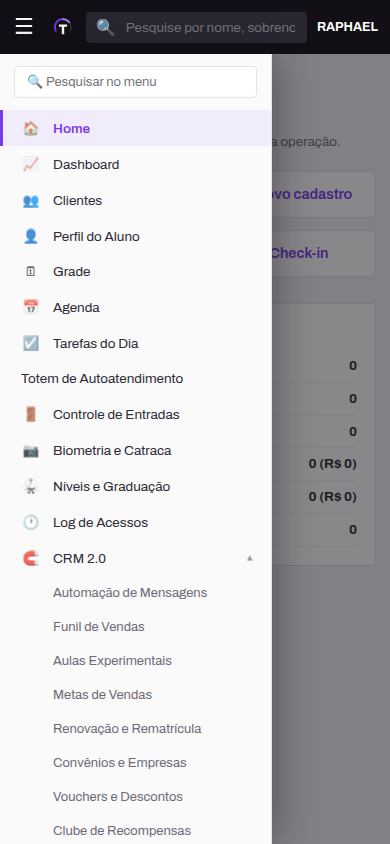
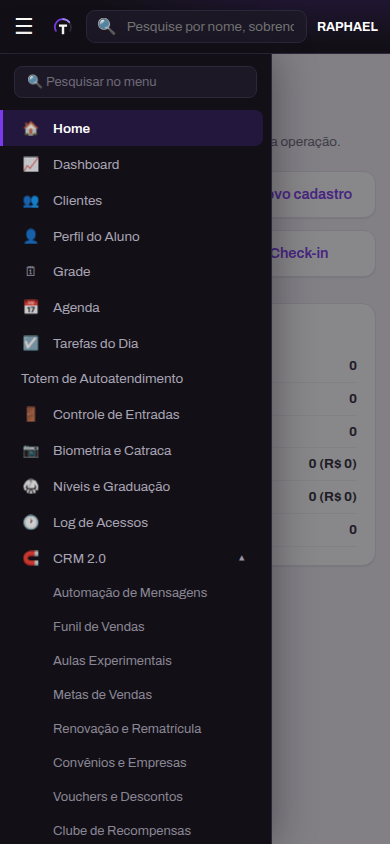
Acabamento premium na casca do Sistema e nas superfícies escuras
Segue a spec do pacote de redesign para as telas com CSS próprio:
- sistema.html: menu lateral escuro (#121016) com item ativo em pílula
  roxa (rgba .18 + borda 3px), busca do menu e global escuras com anel
  de foco, topbar com radial roxo, atalhos/KPIs/painéis com raio 14px
  e sombras, botões com lift + sombra roxa.
- totem.html: fundo com glow radial roxo, anel de foco na busca, hover
  nos botões/sugestões, sombra no WOD; linha "🕐 Hoje" só aparece
  quando o funcionamento está configurado.
- tv.html: glow de fundo, traço-gradiente na marca, barras-pílula com
  transição, tags-pílula, 1º lugar com gradiente e sombra.
- matricula.html: topo com radial roxo, planos com hover/lift e sombra
  roxa no selecionado, anel de foco, botão em gradiente.
- app-aluno.html (gerador): cards/details/favoritos com raio 14 e
  sombra, botões com sombra da cor e efeito de pressão, nav com sombra
  superior.
SW mt-v147; as 7 suítes passam (49 checagens na test-final incluídas).

Claude-Session: https://claude.ai/code/session_01YJYUzEh6NYJGH3ezUp8h3y

diff --git a/apps/sistema.html b/apps/sistema.html
@@ -10,8 +10,12 @@
   :root {
     --roxo: #7c3aed; --roxo-2: #6d28d9; --lilas: #a78bfa;
     --escuro: #121016; --texto: #2e2b36; --cinza: #6e6a78; --cinza-2: #9995a3;
-    --fundo: #f2f1f5; --menu: #fafafa; --linha: #e4e2ea;
+    --fundo: #f2f1f5; --menu: #121016; --linha: #e4e2ea; --linha-escura: #2c2739;
     --ok: #16a34a; --erro: #dc2626; --alerta: #d97706;
+    --raio: 14px; --raio-s: 9px;
+    --sombra-1: 0 1px 2px rgba(19,17,24,.05), 0 1px 1px rgba(19,17,24,.03);
+    --sombra-roxo: 0 8px 20px -8px rgba(124,58,237,.5);
+    --anel: 0 0 0 3px rgba(124,58,237,.16);
   }
   * { box-sizing: border-box; }
   [hidden] { display: none !important; }
@@ -20,15 +24,18 @@
   /* ---------- topbar (escura, estilo EVO) ---------- */
   .topo {
     position: fixed; top: 0; left: 0; right: 0; z-index: 30; height: 54px;
-    background: var(--escuro); color: #fff;
+    background: radial-gradient(140% 300% at 90% -80%, rgba(124,58,237,.25), transparent 55%), var(--escuro);
+    border-bottom: 1px solid var(--linha-escura); color: #fff;
     display: flex; align-items: center; gap: 16px; padding: 0 16px;
   }
   .topo .marca { display: flex; align-items: center; gap: 8px; font-weight: 800; letter-spacing: .06em; font-size: 15px; white-space: nowrap; }
   .topo .marca img { width: 26px; height: 26px; }
   .topo .buscaGlobal {
     flex: 1; max-width: 560px; display: flex; align-items: center; gap: 8px;
-    background: #2a2733; border-radius: 4px; padding: 7px 12px;
+    background: #1c1826; border: 1px solid var(--linha-escura); border-radius: var(--raio-s); padding: 7px 12px;
+    transition: border-color .15s ease, box-shadow .15s ease;
   }
+  .topo .buscaGlobal:focus-within { border-color: var(--roxo); box-shadow: var(--anel); }
   .topo .buscaGlobal input { flex: 1; background: none; border: none; color: #fff; font-family: inherit; font-size: 13.5px; outline: none; }
   .topo .direita { margin-left: auto; display: flex; align-items: center; gap: 10px; font-size: 12.5px; text-align: right; }
   .topo .direita small { display: block; color: var(--cinza-2); }
@@ -37,31 +44,36 @@
   /* ---------- menu lateral (claro, estilo EVO) ---------- */
   .menu {
     position: fixed; top: 54px; bottom: 0; left: 0; width: 228px; z-index: 20;
-    background: var(--menu); border-right: 1px solid var(--linha);
-    display: flex; flex-direction: column; overflow-y: auto; scrollbar-width: thin;
+    background: var(--menu); border-right: 1px solid var(--linha-escura); color: #a9a4b5;
+    display: flex; flex-direction: column; overflow-y: auto; scrollbar-width: thin; scrollbar-color: #2c2739 transparent;
   }
   .menu .pesquisaMenu { padding: 12px 14px 6px; }
   .menu .pesquisaMenu input {
     width: 100%; padding: 8px 12px; font-family: inherit; font-size: 13px;
-    border: 1px solid var(--linha); border-radius: 4px; background: #fff; color: var(--texto);
+    border: 1px solid var(--linha-escura); border-radius: 8px; background: #1c1826; color: #fff;
+    transition: border-color .15s ease, box-shadow .15s ease; outline: none;
   }
+  .menu .pesquisaMenu input::placeholder { color: #6e6a78; }
+  .menu .pesquisaMenu input:focus { border-color: var(--roxo); box-shadow: var(--anel); }
   .menu nav { flex: 1; padding: 6px 0 12px; }
   .item, .grupo > summary {
     display: flex; align-items: center; gap: 12px;
-    padding: 10px 18px; font-size: 13.5px; color: var(--texto);
+    padding: 10px 18px; font-size: 13.5px; color: #a9a4b5;
     cursor: pointer; text-decoration: none; border-left: 3px solid transparent;
-    list-style: none; user-select: none;
+    list-style: none; user-select: none; border-radius: 0 8px 8px 0; margin-right: 8px;
+    transition: background .12s ease, color .12s ease;
   }
   .grupo > summary::-webkit-details-marker { display: none; }
-  .item:hover, .grupo > summary:hover { background: #efedf4; }
-  .item.ativo { color: var(--roxo); border-left-color: var(--roxo); background: #f1ecfb; font-weight: 600; }
+  .item:hover, .grupo > summary:hover { background: rgba(255,255,255,.06); color: #fff; }
+  .item.ativo { color: #fff; border-left-color: var(--roxo); background: rgba(124,58,237,.18); font-weight: 600; }
   .item .ico, .grupo .ico { width: 20px; text-align: center; flex: none; opacity: .8; }
   .grupo > summary::after { content: "▾"; margin-left: auto; font-size: 11px; color: var(--cinza-2); transition: transform .15s; }
   .grupo[open] > summary::after { transform: rotate(180deg); }
   .grupo .sub { display: flex; flex-direction: column; }
-  .grupo .sub .item { padding-left: 50px; font-size: 13px; color: var(--cinza); }
-  .grupo .sub .item.ativo { color: var(--roxo); }
-  .menu .rodape { border-top: 1px solid var(--linha); padding: 8px 0; }
+  .grupo .sub .item { padding-left: 50px; font-size: 13px; color: #8a8695; }
+  .grupo .sub .item:hover { color: #fff; }
+  .grupo .sub .item.ativo { color: #fff; }
+  .menu .rodape { border-top: 1px solid var(--linha-escura); padding: 8px 0; }
 
   /* ---------- conteúdo ---------- */
   .conteudo { margin-left: 228px; margin-top: 54px; min-height: calc(100vh - 54px); display: flex; flex-direction: column; }
@@ -74,24 +86,25 @@
   .atalhos { display: flex; gap: 12px; flex-wrap: wrap; margin: 18px 0 26px; }
   .atalho {
     display: flex; align-items: center; gap: 10px; padding: 16px 26px;
-    background: #fff; border: 1px solid var(--linha); border-radius: 4px;
+    background: #fff; border: 1px solid var(--linha); border-radius: 12px; box-shadow: var(--sombra-1);
     font-size: 14.5px; font-weight: 600; color: var(--roxo); cursor: pointer; font-family: inherit;
+    transition: transform .15s ease, box-shadow .2s ease, border-color .15s ease;
   }
-  .atalho:hover { border-color: var(--roxo); }
+  .atalho:hover { border-color: var(--roxo); transform: translateY(-1px); box-shadow: var(--sombra-roxo); }
 
   /* dashboard */
   .kpis { display: grid; grid-template-columns: repeat(auto-fill, minmax(280px, 1fr)); gap: 14px; }
   .kpi {
-    background: #fff; border: 1px solid var(--linha); border-radius: 4px; padding: 16px 18px;
-    display: flex; flex-direction: column; gap: 4px;
+    background: #fff; border: 1px solid var(--linha); border-radius: var(--raio); padding: 18px 20px;
+    display: flex; flex-direction: column; gap: 4px; box-shadow: var(--sombra-1);
   }
   .kpi .rotulo { display: flex; justify-content: space-between; font-size: 13px; color: var(--texto); font-weight: 600; }
   .kpi .rotulo a { font-size: 12.5px; color: var(--roxo); text-decoration: none; font-weight: 600; cursor: pointer; }
-  .kpi .valor { font-size: 34px; font-weight: 800; }
+  .kpi .valor { font-size: 34px; font-weight: 800; letter-spacing: -.03em; font-variant-numeric: tabular-nums; }
   .kpi .valor.verde { color: var(--ok); }
   .kpi .valor.vermelho { color: var(--erro); }
   .kpi .compara { font-size: 11.5px; color: var(--cinza-2); border-top: 1px solid var(--fundo); padding-top: 8px; margin-top: 6px; }
-  .painel { background: #fff; border: 1px solid var(--linha); border-radius: 4px; padding: 18px; margin-top: 14px; }
+  .painel { background: #fff; border: 1px solid var(--linha); border-radius: var(--raio); padding: 18px; margin-top: 14px; box-shadow: var(--sombra-1); }
   .painel h3 { margin: 0 0 12px; font-size: 14px; display: flex; align-items: center; gap: 8px; }
   .lista-simples div { display: flex; justify-content: space-between; padding: 8px 0; border-bottom: 1px solid var(--fundo); font-size: 13.5px; }
 
@@ -112,10 +125,12 @@
   }
   .btn-roxo {
     display: inline-flex; align-items: center; gap: 8px; padding: 10px 18px;
-    background: var(--roxo); color: #fff; border: none; border-radius: 4px;
+    background: var(--roxo); color: #fff; border: none; border-radius: var(--raio-s);
     font-family: inherit; font-size: 13px; font-weight: 700; letter-spacing: .04em; cursor: pointer;
+    transition: background .15s ease, transform .15s ease, box-shadow .2s ease;
   }
-  .btn-roxo:hover { background: var(--roxo-2); }
+  .btn-roxo:hover { background: var(--roxo-2); transform: translateY(-1px); box-shadow: var(--sombra-roxo); }
+  .btn-roxo:active { transform: none; box-shadow: none; }
   .mini-abas { display: inline-flex; align-items: center; gap: 14px; margin-left: auto; font-weight: 400; }
   .mini-abas button {
     padding: 4px 2px; font-family: inherit; font-size: 12.5px; font-weight: 600;
@@ -131,7 +146,7 @@
     background: none; border: none; color: #cfccd8; font-size: 17px; cursor: pointer;
     padding: 6px 8px; border-radius: 4px;
   }
-  .acoes-topo button:hover { background: #2a2733; color: #fff; }
+  .acoes-topo button:hover { background: #1c1826; color: #fff; }
   .grafico svg { width: 100%; height: auto; display: block; }
   .leg { display: flex; gap: 18px; font-size: 12px; color: var(--cinza); justify-content: center; margin: 2px 0 10px; flex-wrap: wrap; }
   .leg i { display: inline-block; width: 10px; height: 10px; margin-right: 6px; border-radius: 2px; vertical-align: -1px; }
@@ -141,9 +156,9 @@
   .destaque-par .par .conv { color: var(--ok); }
 
   /* config */
-  .cfg-bloco { background: #fff; border: 1px solid var(--linha); border-radius: 4px; padding: 18px; margin-bottom: 14px; }
+  .cfg-bloco { background: #fff; border: 1px solid var(--linha); border-radius: var(--raio); padding: 18px; margin-bottom: 14px; box-shadow: var(--sombra-1); }
   .cfg-bloco h3 { margin: 0 0 10px; font-size: 14px; }
-  .btnzinho { padding: 9px 16px; font-family: inherit; font-size: 13px; font-weight: 600; border: 1px solid var(--linha); background: #fff; color: var(--texto); cursor: pointer; border-radius: 4px; }
+  .btnzinho { padding: 9px 16px; font-family: inherit; font-size: 13px; font-weight: 600; border: 1.5px solid #cfccd8; background: #fff; color: var(--texto); cursor: pointer; border-radius: var(--raio-s); transition: border-color .15s ease, color .15s ease, background .15s ease; }
   .btnzinho:hover { border-color: var(--roxo); color: var(--roxo); }
 
   /* botão hambúrguer (só aparece no celular) */

diff --git a/apps/totem.html b/apps/totem.html
@@ -8,17 +8,19 @@
 <link href="../assets/fonts/archivo.css" rel="stylesheet">
 <style>
   * { box-sizing: border-box; margin: 0; }
-  body { font-family: "Archivo", system-ui, sans-serif; background: #121016; color: #f5f4f7; min-height: 100vh; display: flex; flex-direction: column; }
+  body { font-family: "Archivo", system-ui, sans-serif; background: radial-gradient(120% 90% at 50% -30%, rgba(124,58,237,.22), transparent 60%), #121016; color: #f5f4f7; min-height: 100vh; display: flex; flex-direction: column; }
   header { text-align: center; padding: 26px 16px 10px; }
   header h1 { font-size: 30px; font-weight: 800; }
   #relogio { font-size: 52px; font-weight: 800; color: #a78bfa; letter-spacing: .02em; }
   main { flex: 1; max-width: 640px; width: 100%; margin: 0 auto; padding: 10px 18px 40px; }
   .busca { display: flex; gap: 10px; margin-top: 14px; }
   input { flex: 1; background: #1c1826; border: 2px solid #2c2739; border-radius: 14px; color: #fff; padding: 18px; font-family: inherit; font-size: 20px; text-align: center; }
-  input:focus { outline: none; border-color: #7c3aed; }
-  .btn-qr { background: #7c3aed; border: none; border-radius: 14px; color: #fff; font-size: 26px; padding: 0 24px; cursor: pointer; }
+  input:focus { outline: none; border-color: #7c3aed; box-shadow: 0 0 0 4px rgba(124,58,237,.2); }
+  .btn-qr { background: #7c3aed; border: none; border-radius: 14px; color: #fff; font-size: 26px; padding: 0 24px; cursor: pointer; transition: transform .15s ease, box-shadow .2s ease; }
+  .btn-qr:hover { transform: translateY(-1px); box-shadow: 0 8px 20px -8px rgba(124,58,237,.6); }
   .sug { margin-top: 8px; }
-  .sug button { display: block; width: 100%; background: #1c1826; border: 1px solid #2c2739; border-radius: 10px; color: #fff; font-family: inherit; font-size: 18px; padding: 14px; margin-top: 6px; cursor: pointer; }
+  .sug button { display: block; width: 100%; background: #1c1826; border: 1px solid #2c2739; border-radius: 10px; color: #fff; font-family: inherit; font-size: 18px; padding: 14px; margin-top: 6px; cursor: pointer; transition: border-color .12s ease, background .12s ease; }
+  .sug button:hover { border-color: #7c3aed; background: #221b31; }
   #painel { margin-top: 18px; border-radius: 18px; padding: 26px; text-align: center; display: none; }
   #painel.ok { background: rgba(22,163,74,.15); border: 2px solid #16a34a; }
   #painel.bloq { background: rgba(220,38,38,.14); border: 2px solid #dc2626; }
@@ -26,7 +28,7 @@
   #painel h2 { font-size: 26px; margin: 8px 0 4px; }
   #painel p { color: #cfc9dd; font-size: 15px; line-height: 1.5; }
   #videoQR { width: 100%; max-height: 300px; background: #000; border-radius: 14px; object-fit: cover; margin-top: 12px; display: none; }
-  .wod { background: #1c1826; border: 1px solid #2c2739; border-radius: 16px; padding: 18px; margin-top: 22px; }
+  .wod { background: #1c1826; border: 1px solid #2c2739; border-radius: 16px; padding: 18px; margin-top: 22px; box-shadow: 0 10px 30px -12px rgba(0,0,0,.4); }
   .wod h3 { color: #a78bfa; font-size: 13px; letter-spacing: .12em; margin-bottom: 8px; }
   .wod pre { font-family: inherit; white-space: pre-wrap; font-size: 15px; line-height: 1.55; }
   .aviso { background: #1c1826; border-left: 4px solid #7c3aed; border-radius: 10px; padding: 12px 14px; margin-top: 10px; font-size: 14px; }
@@ -78,10 +80,15 @@
     var d = new Date();
     $("relogio").textContent = ("0" + d.getHours()).slice(-2) + ":" + ("0" + d.getMinutes()).slice(-2);
     try {
-      var ab = S.abertoAgora();
-      var rot = ab.hoje.fechado ? "fechado hoje" : ab.hoje.faixas.map(function (f) { return f.de + "–" + f.ate; }).join(" e ");
-      $("funcHoje").textContent = "🕐 Hoje" + (ab.hoje.feriado ? " (" + ab.hoje.feriado + ")" : "") + ": " + rot +
-        (ab.hoje.fechado || ab.aberto ? "" : " · ⛔ fechado agora");
+      var stF = S.read("funcionamento", { dias: {}, feriados: [] });
+      var temCfg = Object.keys(stF.dias || {}).some(function (k) { return stF.dias[k] && stF.dias[k].de; }) || (stF.feriados || []).length;
+      if (!temCfg) { $("funcHoje").textContent = ""; }
+      else {
+        var ab = S.abertoAgora();
+        var rot = ab.hoje.fechado ? "fechado hoje" : ab.hoje.faixas.map(function (f) { return f.de + "–" + f.ate; }).join(" e ");
+        $("funcHoje").textContent = "🕐 Hoje" + (ab.hoje.feriado ? " (" + ab.hoje.feriado + ")" : "") + ": " + rot +
+          (ab.hoje.fechado || ab.aberto ? "" : " · ⛔ fechado agora");
+      }
     } catch (e) {}
   }
   tic(); setInterval(tic, 15000);

diff --git a/apps/app-aluno.html b/apps/app-aluno.html
@@ -432,11 +432,13 @@
       "h1{font-size:26px;font-weight:800;padding:18px 16px 8px}" +
       ".secTit{font-size:17px;font-weight:800;padding:14px 16px 8px}" +
       ".favs{display:flex;gap:10px;overflow-x:auto;padding:2px 16px 6px;-webkit-overflow-scrolling:touch}" +
-      ".fav{flex:0 0 104px;background:var(--card);border-radius:12px;padding:16px 8px;text-align:center;font-size:13px;font-weight:600;cursor:pointer;border:1px solid var(--linha)}" +
+      ".fav{flex:0 0 104px;background:var(--card);border-radius:14px;padding:16px 8px;text-align:center;font-size:13px;font-weight:600;cursor:pointer;border:1px solid var(--linha);box-shadow:0 1px 2px rgba(0,0,0,.2);transition:transform .15s ease,border-color .15s ease}" +
+      ".fav:active{transform:scale(.97)}" +
       ".fav .ic{display:block;font-size:22px;margin-bottom:8px}" +
-      ".cardx{background:var(--card);border:1px solid var(--linha);border-radius:12px;margin:6px 16px;padding:14px 16px}" +
+      ".cardx{background:var(--card);border:1px solid var(--linha);border-radius:14px;margin:6px 16px;padding:14px 16px;box-shadow:0 1px 2px rgba(0,0,0,.2)}" +
       ".linha{display:flex;align-items:center;gap:12px}" +
-      ".btnx{background:var(--cor);color:#fff;border:none;border-radius:22px;padding:11px 22px;font-weight:800;font-size:14px;font-family:inherit;cursor:pointer;text-decoration:none;display:inline-block}" +
+      ".btnx{background:var(--cor);color:#fff;border:none;border-radius:22px;padding:11px 22px;font-weight:800;font-size:14px;font-family:inherit;cursor:pointer;text-decoration:none;display:inline-block;box-shadow:0 6px 16px -8px var(--cor);transition:transform .12s ease}" +
+      ".btnx:active{transform:scale(.97)}" +
       ".kv{display:flex;justify-content:space-between;font-size:14.5px;padding:5px 0}.kv span:last-child{font-weight:700}" +
       ".ficha{margin-top:10px}.ficha h3{font-size:14px;margin-bottom:6px}" +
       ".ex{display:flex;justify-content:space-between;gap:8px;font-size:13.5px;padding:5px 0;border-bottom:1px dashed var(--linha);color:var(--txt)}" +
@@ -445,9 +447,9 @@
       ".banner{margin:6px 16px;padding:13px 16px;border-radius:12px;background:var(--cor);color:#fff;font-weight:800;font-size:14px;text-align:center}" +
       ".chipdia{display:flex;gap:8px;padding:8px 16px;overflow-x:auto}" +
       ".chipdia button{flex:0 0 44px;height:58px;border-radius:12px;border:1px solid var(--linha);background:var(--card);color:var(--txt);font-family:inherit;font-weight:700;cursor:pointer;font-size:12px}" +
-      ".chipdia button.on{background:var(--cor);border-color:var(--cor);color:#fff}" +
+      ".chipdia button.on{background:var(--cor);border-color:var(--cor);color:#fff;box-shadow:0 6px 16px -8px var(--cor)}" +
       ".chipdia .num{display:block;font-size:16px;margin-top:3px}" +
-      ".aula{background:var(--card);border:1px solid var(--linha);border-radius:12px;margin:6px 16px;padding:13px 16px}" +
+      ".aula{background:var(--card);border:1px solid var(--linha);border-radius:14px;margin:6px 16px;padding:13px 16px;box-shadow:0 1px 2px rgba(0,0,0,.2)}" +
       ".aula .l1{display:flex;justify-content:space-between;gap:8px;font-weight:800;font-size:15px}" +
       ".aula .sub{color:var(--txt2);font-size:13px;margin-top:3px}" +
       ".aula .vg{color:var(--txt2);font-size:13px;white-space:nowrap}" +
@@ -463,7 +465,7 @@
       ".perfilTopo{text-align:center;padding:18px 16px 6px}" +
       ".avat{width:84px;height:84px;border-radius:50%;background:var(--cor);color:#fff;display:inline-flex;align-items:center;justify-content:center;font-size:30px;font-weight:800}" +
       ".perfilTopo .idl{color:var(--txt2);font-size:13px;margin-top:8px}.perfilTopo .nm{font-size:22px;font-weight:800}.perfilTopo .ac{color:var(--txt2);letter-spacing:.08em;font-size:13px}" +
-      "details{background:var(--card);border:1px solid var(--linha);border-radius:12px;margin:6px 16px;overflow:hidden}" +
+      "details{background:var(--card);border:1px solid var(--linha);border-radius:14px;margin:6px 16px;overflow:hidden;box-shadow:0 1px 2px rgba(0,0,0,.2)}" +
       "summary{padding:15px 16px;font-weight:700;font-size:15px;cursor:pointer;list-style:none;display:flex;gap:12px;align-items:center}" +
       "summary::-webkit-details-marker{display:none}summary .ic{font-size:18px}summary:after{content:'›';margin-left:auto;color:var(--txt2);font-size:20px;transform:rotate(90deg)}" +
       "details[open] summary:after{transform:rotate(-90deg)}" +
@@ -498,7 +500,7 @@
       ".rk{display:flex;gap:10px;align-items:center;padding:7px 0;border-bottom:1px solid var(--linha);font-size:14px}" +
       ".rk:last-child{border-bottom:none}.rk .pos{width:34px;font-weight:800;text-align:center}" +
       ".rk.eu{background:linear-gradient(90deg,transparent,rgba(124,58,237,.10));font-weight:800;color:var(--cor)}" +
-      "nav{position:fixed;bottom:0;left:0;right:0;max-width:480px;margin:0 auto;display:flex;background:var(--card);border-top:1px solid var(--linha);padding-bottom:env(safe-area-inset-bottom)}" +
+      "nav{position:fixed;bottom:0;left:0;right:0;max-width:480px;margin:0 auto;display:flex;background:var(--card);border-top:1px solid var(--linha);padding-bottom:env(safe-area-inset-bottom);box-shadow:0 -6px 24px rgba(0,0,0,.25)}" +
       "nav button{flex:1;background:none;border:none;color:var(--txt2);font-family:inherit;font-size:11.5px;font-weight:700;padding:8px 4px 10px;cursor:pointer}" +
       "nav button .ic{display:block;font-size:20px;margin-bottom:2px}" +
       "nav button.on{color:var(--cor)}nav button.on .ic{background:var(--cor);border-radius:18px;padding:2px 14px}" +

diff --git a/apps/tv.html b/apps/tv.html
@@ -9,11 +9,11 @@
 <style>
   :root { --roxo: #7c3aed; --lilas: #a78bfa; --ok: #22c55e; --erro: #f87171; --alerta: #fbbf24; }
   * { box-sizing: border-box; }
-  html, body { margin: 0; height: 100%; background: #121016; color: #fff; font-family: "Archivo", system-ui, sans-serif; overflow: hidden; }
+  html, body { margin: 0; height: 100%; background: radial-gradient(110% 70% at 85% -20%, rgba(124,58,237,.2), transparent 60%), #121016; color: #fff; font-family: "Archivo", system-ui, sans-serif; overflow: hidden; }
   .tela { height: 100vh; display: flex; flex-direction: column; padding: 3.5vh 4vw; }
   .cab { display: flex; justify-content: space-between; align-items: center; }
   .marca { display: flex; align-items: center; gap: 14px; font-size: 2.2vh; font-weight: 700; letter-spacing: .2em; color: var(--lilas); }
-  .marca::before { content: ""; width: 3.5vw; height: .55vh; background: var(--roxo); }
+  .marca::before { content: ""; width: 3.5vw; height: .55vh; background: linear-gradient(90deg, var(--roxo), var(--lilas)); border-radius: 4px; }
   .relogio { font-size: 3.2vh; font-weight: 800; font-variant-numeric: tabular-nums; }
   h1 { margin: 2.2vh 0 0; font-size: 5.6vh; font-weight: 800; letter-spacing: -.01em; }
   .conteudo { flex: 1; margin-top: 3vh; overflow: hidden; }
@@ -27,20 +27,20 @@
   .rotulo { font-size: 2vh; font-weight: 700; letter-spacing: .16em; color: #a09aae; }
   .num { font-size: 6.4vh; font-weight: 800; margin: .6vh 0; }
   .num small { font-size: 2.6vh; color: #a09aae; font-weight: 600; }
-  .barra { height: 2.2vh; background: #1b1822; border: 1px solid #2e2a38; }
-  .barra > div { height: 100%; background: linear-gradient(90deg, var(--roxo), var(--lilas)); }
+  .barra { height: 2.2vh; background: #1b1822; border: 1px solid #2e2a38; border-radius: 999px; overflow: hidden; }
+  .barra > div { height: 100%; background: linear-gradient(90deg, var(--roxo), var(--lilas)); border-radius: 999px; transition: width .5s cubic-bezier(.22,1,.36,1); }
   .barra.cheia > div { background: var(--ok); }
   .rank { display: flex; flex-direction: column; gap: 1.6vh; }
   .rk { display: grid; grid-template-columns: 6vh 1fr 22vw 16vw; gap: 2vw; align-items: center; font-size: 3.4vh; }
   .rk .pos { font-weight: 800; color: var(--lilas); }
-  .rk .pos.p1 { color: #fff; background: var(--roxo); text-align: center; }
+  .rk .pos.p1 { color: #fff; background: linear-gradient(135deg, var(--roxo), var(--lilas)); text-align: center; border-radius: 12px; box-shadow: 0 8px 20px -8px rgba(124,58,237,.6); }
   .rk .nome { font-weight: 700; overflow: hidden; text-overflow: ellipsis; white-space: nowrap; }
   .rk .val { text-align: right; font-variant-numeric: tabular-nums; font-size: 3vh; }
   .rk .val strong { color: var(--ok); }
 
   /* listas (manutenção / checklist) */
   .lin { display: flex; align-items: center; gap: 1.6vw; padding: 1.6vh 0; border-bottom: 1px solid #2e2a38; font-size: 3.2vh; }
-  .lin .tag { font-size: 1.9vh; font-weight: 800; letter-spacing: .08em; padding: .5vh 1vw; flex: none; }
+  .lin .tag { font-size: 1.9vh; font-weight: 800; letter-spacing: .08em; padding: .5vh 1vw; flex: none; border-radius: 999px; }
   .tag.erro { background: rgba(248,113,113,.15); color: var(--erro); }
   .tag.alerta { background: rgba(251,191,36,.14); color: var(--alerta); }
   .tag.roxo { background: rgba(124,58,237,.2); color: var(--lilas); }

diff --git a/matricula.html b/matricula.html
@@ -9,19 +9,21 @@
 <style>
   * { box-sizing: border-box; margin: 0; }
   body { font-family: "Archivo", system-ui, sans-serif; background: #121016; color: #f5f4f7; min-height: 100vh; }
-  .topo { background: linear-gradient(135deg, #1c1724, #2a1f3d); padding: 34px 20px 26px; text-align: center; }
+  .topo { background: radial-gradient(120% 160% at 50% -40%, rgba(124,58,237,.35), transparent 60%), #121016; border-bottom: 1px solid #2c2739; padding: 38px 20px 28px; text-align: center; }
   .topo h1 { font-size: 26px; font-weight: 800; }
   .topo p { color: #b9b3c6; margin-top: 6px; font-size: 14.5px; }
   .corpo { max-width: 560px; margin: 0 auto; padding: 22px 16px 60px; }
-  .plano { background: #1c1826; border: 2px solid #2c2739; border-radius: 14px; padding: 16px; margin-bottom: 12px; cursor: pointer; display: flex; justify-content: space-between; align-items: center; gap: 10px; transition: border-color .15s; }
-  .plano.sel { border-color: #7c3aed; background: #221b31; }
+  .plano { background: #1c1826; border: 2px solid #2c2739; border-radius: 14px; padding: 16px; margin-bottom: 12px; cursor: pointer; display: flex; justify-content: space-between; align-items: center; gap: 10px; transition: border-color .15s ease, transform .15s ease, box-shadow .2s ease; }
+  .plano:hover { transform: translateY(-1px); border-color: #4c3f6b; }
+  .plano.sel { border-color: #7c3aed; background: #221b31; box-shadow: 0 8px 24px -10px rgba(124,58,237,.5); }
   .plano .nm { font-weight: 800; font-size: 16px; }
   .plano .ds { color: #b9b3c6; font-size: 12.5px; margin-top: 3px; }
   .plano .vl { font-size: 20px; font-weight: 800; color: #a78bfa; white-space: nowrap; }
   label { display: block; font-size: 12.5px; font-weight: 700; color: #b9b3c6; margin: 14px 0 5px; }
   input { width: 100%; background: #1c1826; border: 1.5px solid #2c2739; border-radius: 10px; color: #fff; padding: 13px 14px; font-family: inherit; font-size: 15px; }
-  input:focus { outline: none; border-color: #7c3aed; }
-  .btn { width: 100%; background: #7c3aed; color: #fff; border: none; border-radius: 12px; padding: 16px; font-family: inherit; font-size: 16px; font-weight: 800; cursor: pointer; margin-top: 20px; }
+  input:focus { outline: none; border-color: #7c3aed; box-shadow: 0 0 0 3px rgba(124,58,237,.2); }
+  .btn { width: 100%; background: linear-gradient(135deg, #7c3aed, #6d28d9); color: #fff; border: none; border-radius: 12px; padding: 16px; font-family: inherit; font-size: 16px; font-weight: 800; cursor: pointer; margin-top: 20px; transition: transform .15s ease, box-shadow .2s ease; }
+  .btn:hover:not(:disabled) { transform: translateY(-1px); box-shadow: 0 10px 26px -10px rgba(124,58,237,.6); }
   .btn:disabled { opacity: .6; }
   .ok { text-align: center; padding: 40px 10px; }
   .ok .emj { font-size: 54px; }

diff --git a/sw.js b/sw.js
@@ -1,7 +1,7 @@
 /* Service worker do portal Método Torque — precache completo para uso offline. */
 importScripts("assets/content.js");
 
-var VERSION = "mt-v146";
+var VERSION = "mt-v147";
 var PRECACHE = "precache-" + VERSION;
 var RUNTIME = "runtime-" + VERSION;
 